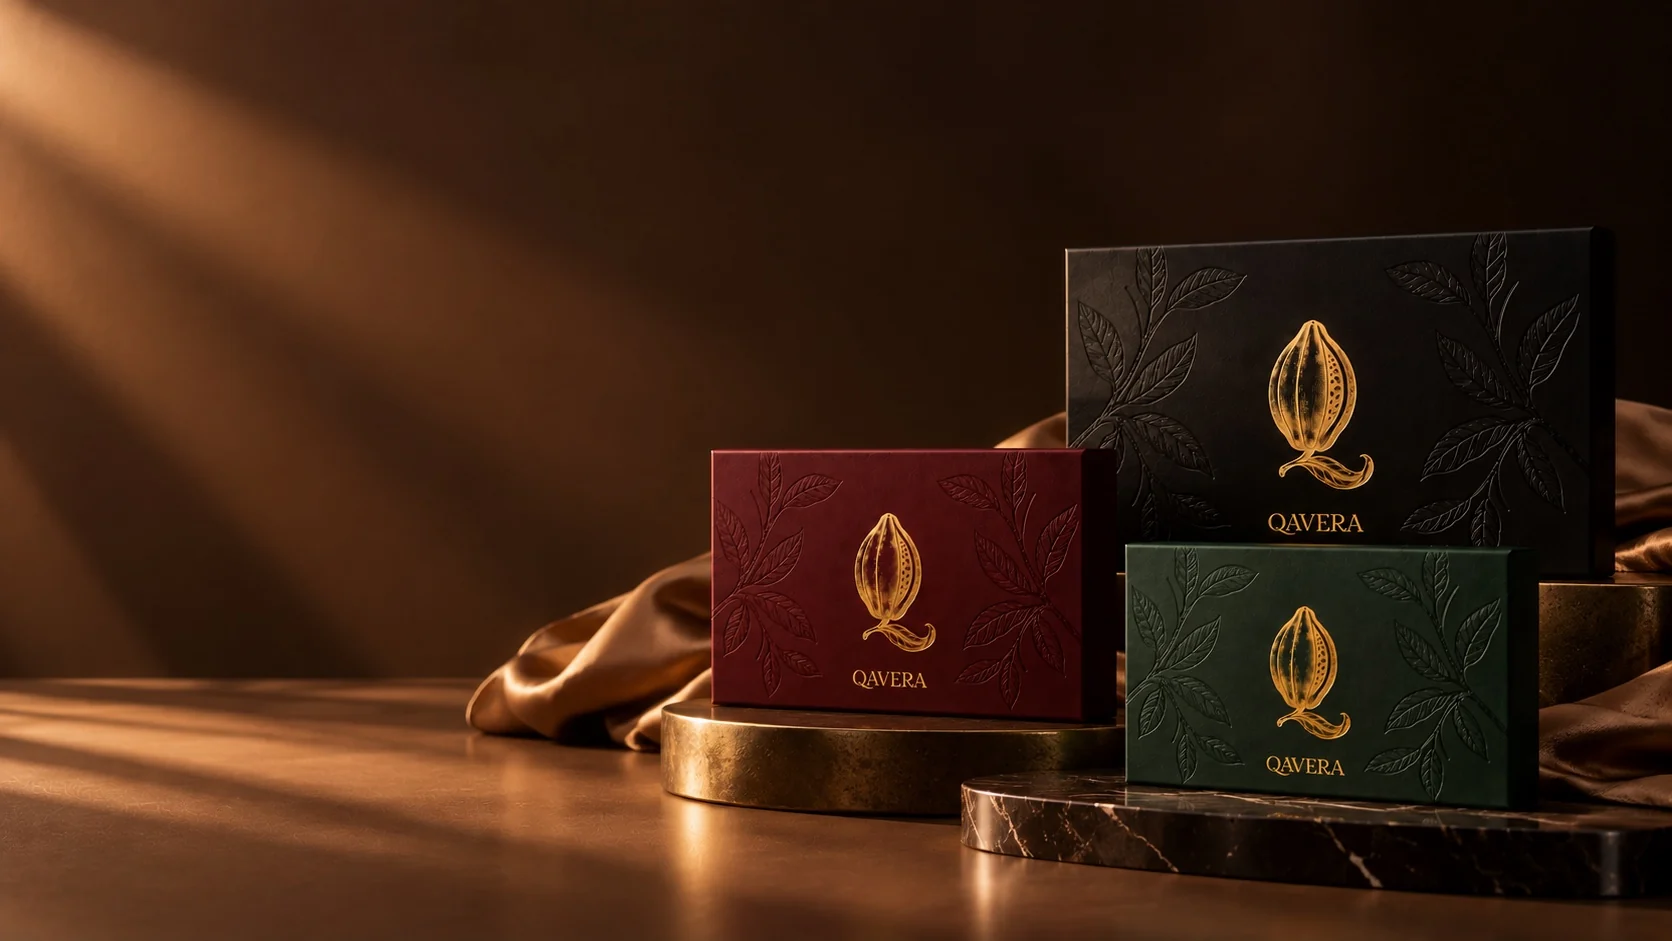
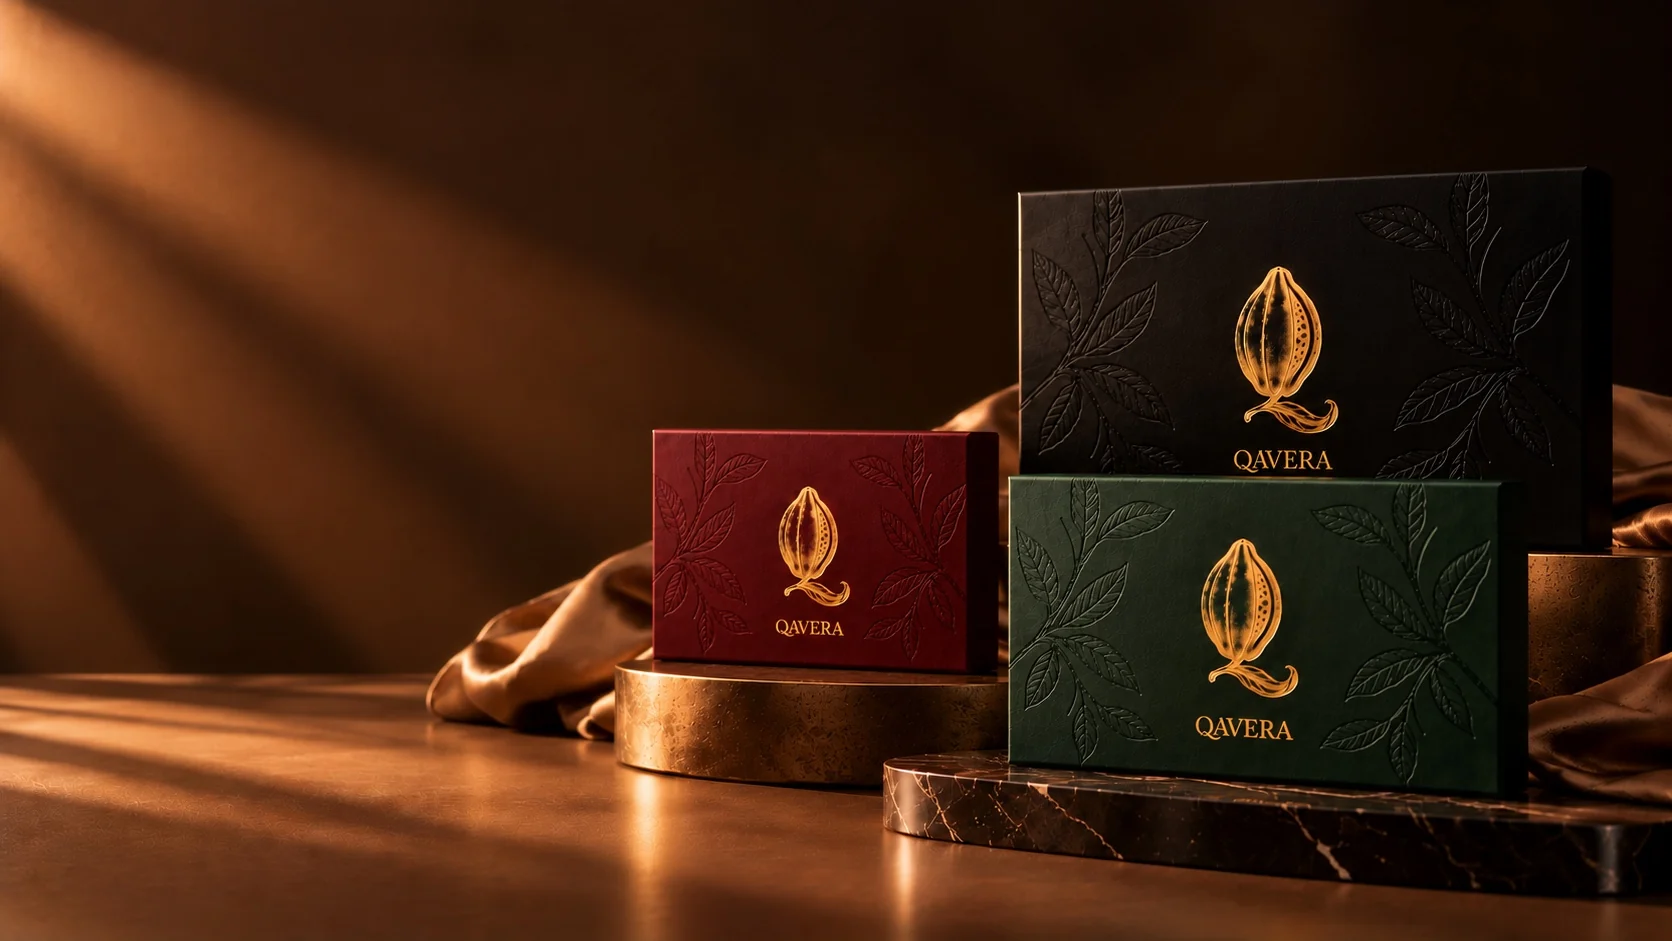
Home: new hero photo of the three boxes, lighter fade so all boxes show
Claude-Session: https://claude.ai/code/session_019Ed87ugP3JYvaEHiqcZahT

diff --git a/home.html b/home.html
@@ -51,7 +51,7 @@
       position: absolute;
       inset: 0;
       background:
-        linear-gradient(90deg, var(--ink) 0%, var(--ink) 28%, rgba(15,14,14,.82) 42%, rgba(15,14,14,.25) 62%, rgba(15,14,14,0) 75%),
+        linear-gradient(90deg, rgba(15,14,14,.92) 0%, rgba(15,14,14,.8) 22%, rgba(15,14,14,.45) 36%, rgba(15,14,14,.08) 48%, rgba(15,14,14,0) 56%),
         linear-gradient(0deg, var(--ink) 0%, rgba(15,14,14,0) 22%);
     }
 
